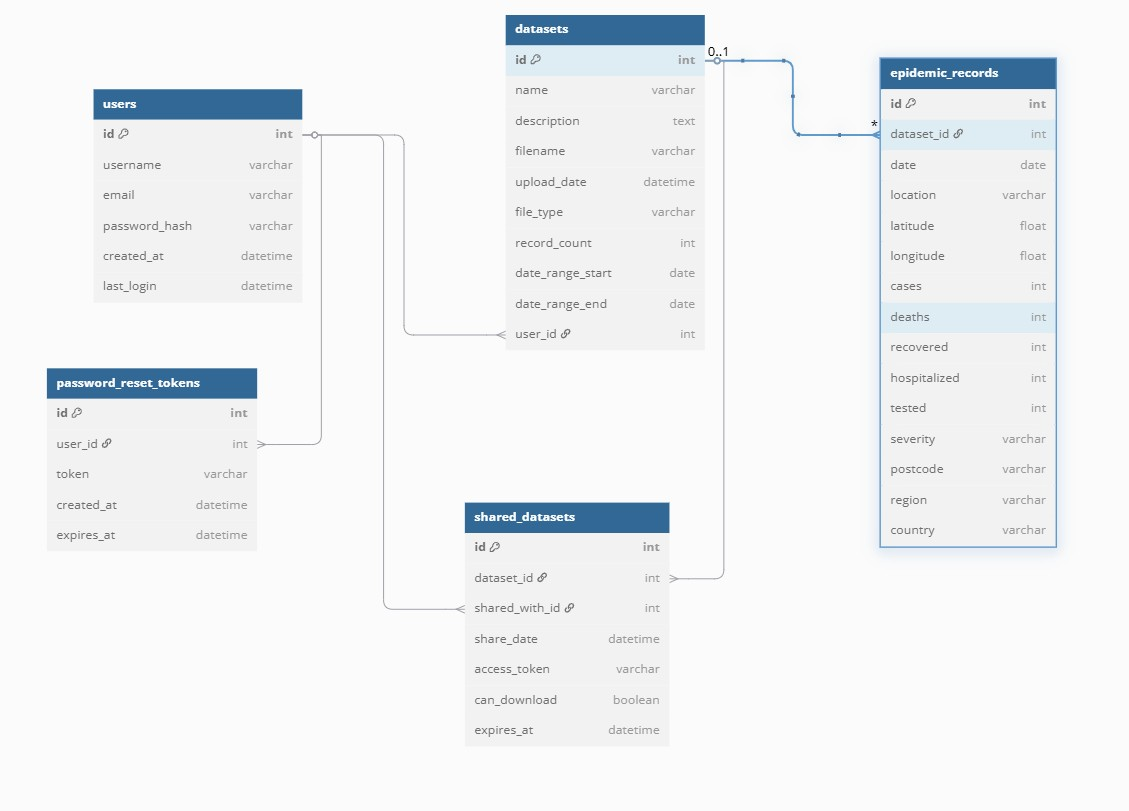
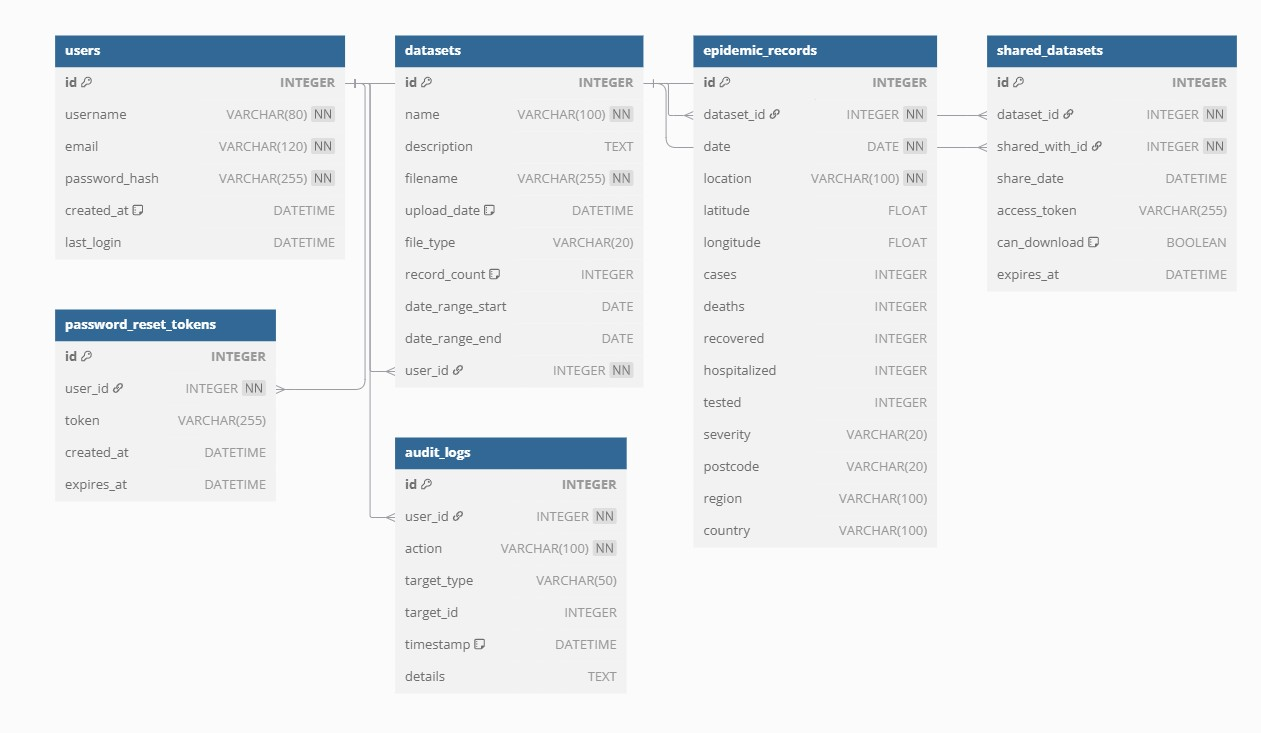
Forgot and Reset Password Only can reset a password if the already created an account with email

diff --git a/templates/reset_password.html b/templates/reset_password.html
@@ -1,0 +1,34 @@
+{% extends 'base.html' %}
+
+{% block title %}Reset Password - Epidemic Monitoring System{% endblock %}
+
+{% block content %}
+<div class="container auth-container">
+    <div class="card auth-card">
+        <div class="card-body">
+            <h3 class="card-title text-center mb-4">Reset Your Password</h3>
+
+            <form method="POST" action="{{ url_for('reset_password', token=token) }}">
+                <input type="hidden" name="csrf_token" value="{{ csrf_token() }}">
+                
+                <div class="mb-3">
+                    <label for="password" class="form-label">New Password</label>
+                    <input type="password" class="form-control" id="password" name="password" required>
+                </div>
+            
+                <div class="mb-3">
+                    <label for="confirm_password" class="form-label">Confirm New Password</label>
+                    <input type="password" class="form-control" id="confirm_password" name="confirm_password" required>
+                </div>
+            
+                <div class="d-grid gap-2">
+                    <button type="submit" class="btn btn-primary">
+                        Reset Password
+                    </button>
+                </div>
+            </form>
+            
+        </div>
+    </div>
+</div>
+{% endblock %}

diff --git a/templates/forgot_password.html b/templates/forgot_password.html
@@ -1,0 +1,29 @@
+{% extends 'base.html' %}
+
+{% block title %}Forgot Password - Epidemic Monitoring System{% endblock %}
+
+{% block content %}
+<div class="container auth-container">
+    <div class="card auth-card">
+        <div class="card-body">
+            <h3 class="card-title text-center mb-4">Forgot Your Password?</h3>
+
+            <form method="POST" action="{{ url_for('forgot_password') }}">
+                <input type="hidden" name="csrf_token" value="{{ csrf_token() }}">
+                
+                <div class="mb-3">
+                    <label for="email" class="form-label">Enter your email address</label>
+                    <input type="email" class="form-control" id="email" name="email" required autofocus>
+                </div>
+            
+                <div class="d-grid gap-2">
+                    <button type="submit" class="btn btn-primary">
+                        Send Reset Link
+                    </button>
+                </div>
+            </form>
+            
+        </div>
+    </div>
+</div>
+{% endblock %}

diff --git a/templates/reset_success.html b/templates/reset_success.html
@@ -1,0 +1,21 @@
+{% extends 'base.html' %}
+
+{% block title %}Password Reset Successful - Epidemic Monitoring System{% endblock %}
+
+{% block content %}
+<div class="container auth-container">
+    <div class="card auth-card">
+        <div class="card-body text-center">
+            <i class="bi bi-shield-lock" style="font-size: 3rem; color: green;"></i>
+            <h3 class="card-title mt-3">Password Reset Successful!</h3>
+            <p class="lead">You can now log in with your new password.</p>
+
+            <div class="d-grid gap-2 mt-4">
+                <a href="{{ url_for('login') }}" class="btn btn-primary">
+                    Go to Login
+                </a>
+            </div>
+        </div>
+    </div>
+</div>
+{% endblock %}

diff --git a/templates/login.html b/templates/login.html
@@ -44,7 +44,12 @@
                 </div>
                 
                 <div class="text-center mt-3">
-                    <a href="#" class="text-decoration-none">Forgot your password?</a>
+                    <a href="{{ url_for('forgot_password') }}" class="text-decoration-underline text-muted" style="font-size: 0.9rem;">
+                        Forgot your password?
+                    </a>
+                </div>
+                
+
                 </div>
             </form>
         </div>

diff --git a/app.py b/app.py
@@ -4,6 +4,9 @@ from models import db, User, AuditLog
 from flask_wtf.csrf import CSRFProtect
 from datetime import datetime
 
+from models import db, User, AuditLog, PasswordResetToken
+import secrets
+
 # Initialization
 app = Flask(__name__)
 app.config['SECRET_KEY'] = 'your-secret-key-change-this'
@@ -118,6 +121,101 @@ def logout():
     flash('You have been logged out', 'info')
     return redirect(url_for('index'))
 
+
+
+#Forgot Password
+@app.route('/forgot_password', methods=['GET', 'POST'])
+def forgot_password():
+    if request.method == 'POST':
+        email = request.form.get('email')
+
+        # Find user by email
+        user = User.query.filter_by(email=email).first()
+
+        if user:
+            # If user exists, generate reset token
+            token = secrets.token_hex(32)
+
+            reset_token = PasswordResetToken(
+                user_id=user.id,
+                token=token,
+                created_at=datetime.utcnow(),
+                expires_at=datetime.utcnow()
+            )
+            db.session.add(reset_token)
+            db.session.commit()
+
+            # Generate reset link
+            reset_link = url_for('reset_password', token=token, _external=True)
+            flash(f'Password reset link: {reset_link}', 'info')
+
+            # Audit Log
+            audit = AuditLog(
+                user_id=user.id,
+                action="forgot_password",
+                target_type="User",
+                target_id=user.id,
+                details="Password reset requested"
+            )
+            db.session.add(audit)
+            db.session.commit()
+
+            return redirect(url_for('forgot_password'))
+        else:
+            # If email not found
+            flash('Email address not found. Please check and try again.', 'error')
+            return redirect(url_for('forgot_password'))
+
+    return render_template('forgot_password.html')
+
+
+## Reset Password
+@app.route('/reset_password/<token>', methods=['GET', 'POST'])
+def reset_password(token):
+    reset_token = PasswordResetToken.query.filter_by(token=token).first()
+
+    if not reset_token:
+        flash('Invalid or expired token', 'error')
+        return redirect(url_for('login'))
+
+    user = User.query.get(reset_token.user_id)
+
+    if request.method == 'POST':
+        new_password = request.form.get('password')
+        confirm_password = request.form.get('confirm_password')
+
+        if new_password != confirm_password:
+            flash('Passwords do not match', 'error')
+            return render_template('reset_password.html', token=token)
+
+        # Update user's password
+        user.set_password(new_password)
+        db.session.delete(reset_token)  # remove used token
+        db.session.commit()
+
+        # Audit Log
+        audit = AuditLog(
+            user_id=user.id,
+            action="reset_password",
+            target_type="User",
+            target_id=user.id,
+            details="Password reset successfully"
+        )
+        db.session.add(audit)
+        db.session.commit()
+
+        flash('Password reset successful.', 'success')
+        return redirect(url_for('reset_success'))
+
+
+    return render_template('reset_password.html', token=token)
+
+@app.route('/reset_success')
+def reset_success():
+    return render_template('reset_success.html')
+
+
+
 @app.route('/dashboard')
 @login_required
 def dashboard():
@@ -141,3 +239,8 @@ if __name__ == '__main__':
     with app.app_context():
         db.create_all()
     app.run(debug=True, host='0.0.0.0', port=8080)
+
+
+
+
+
